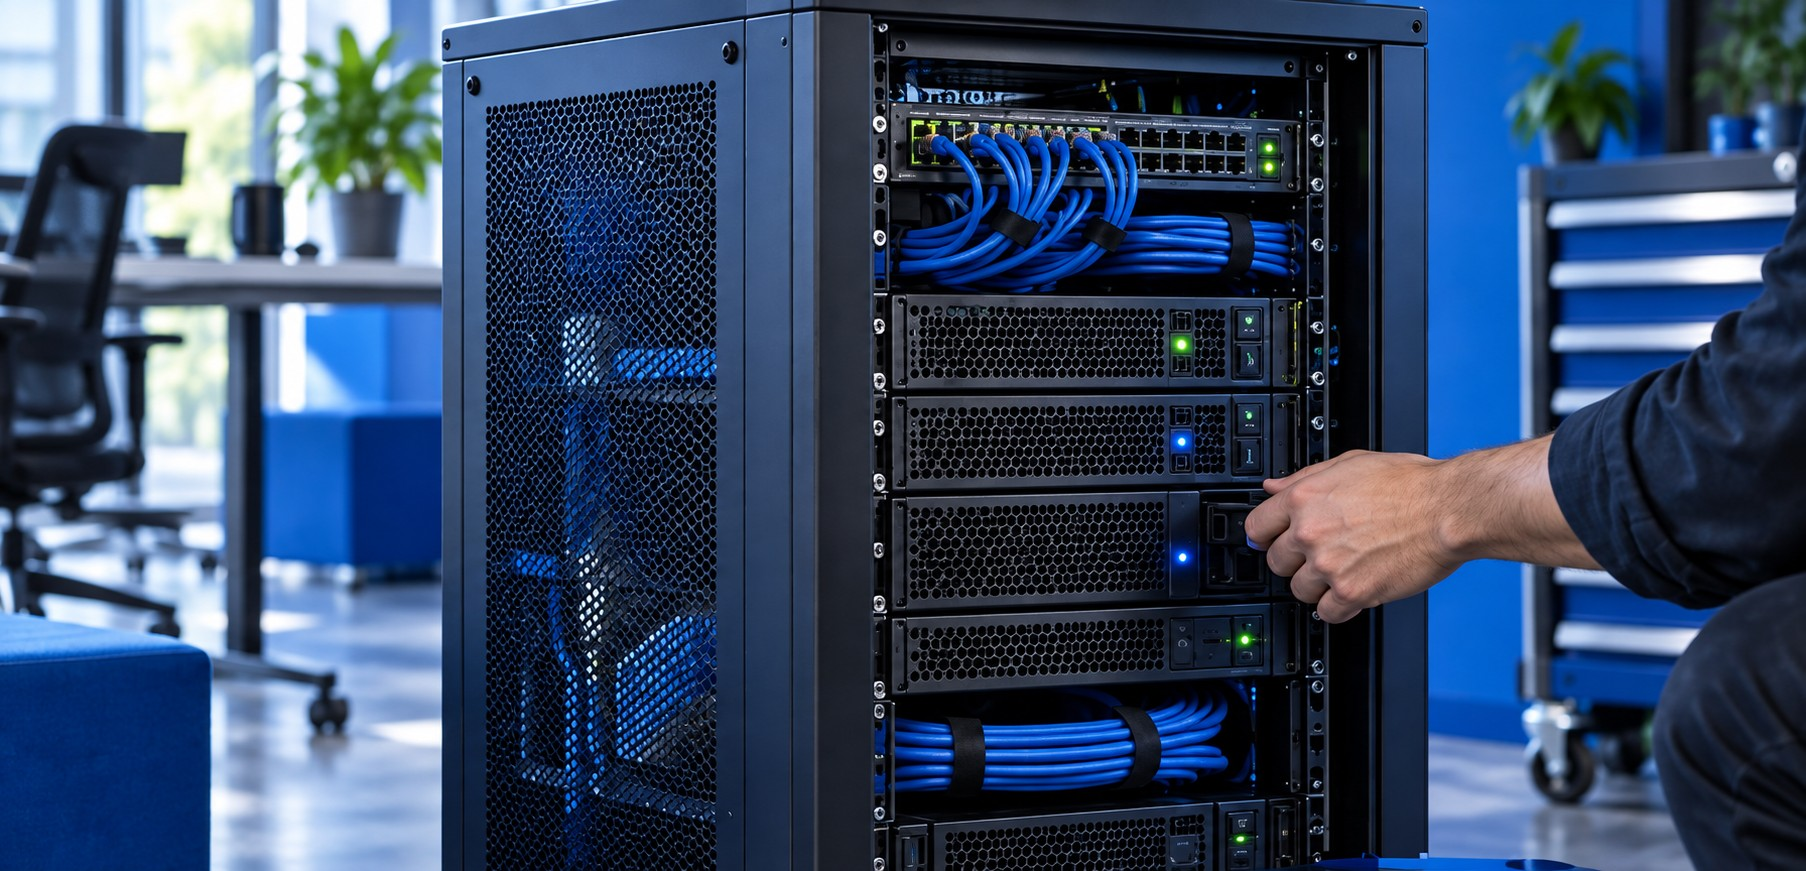
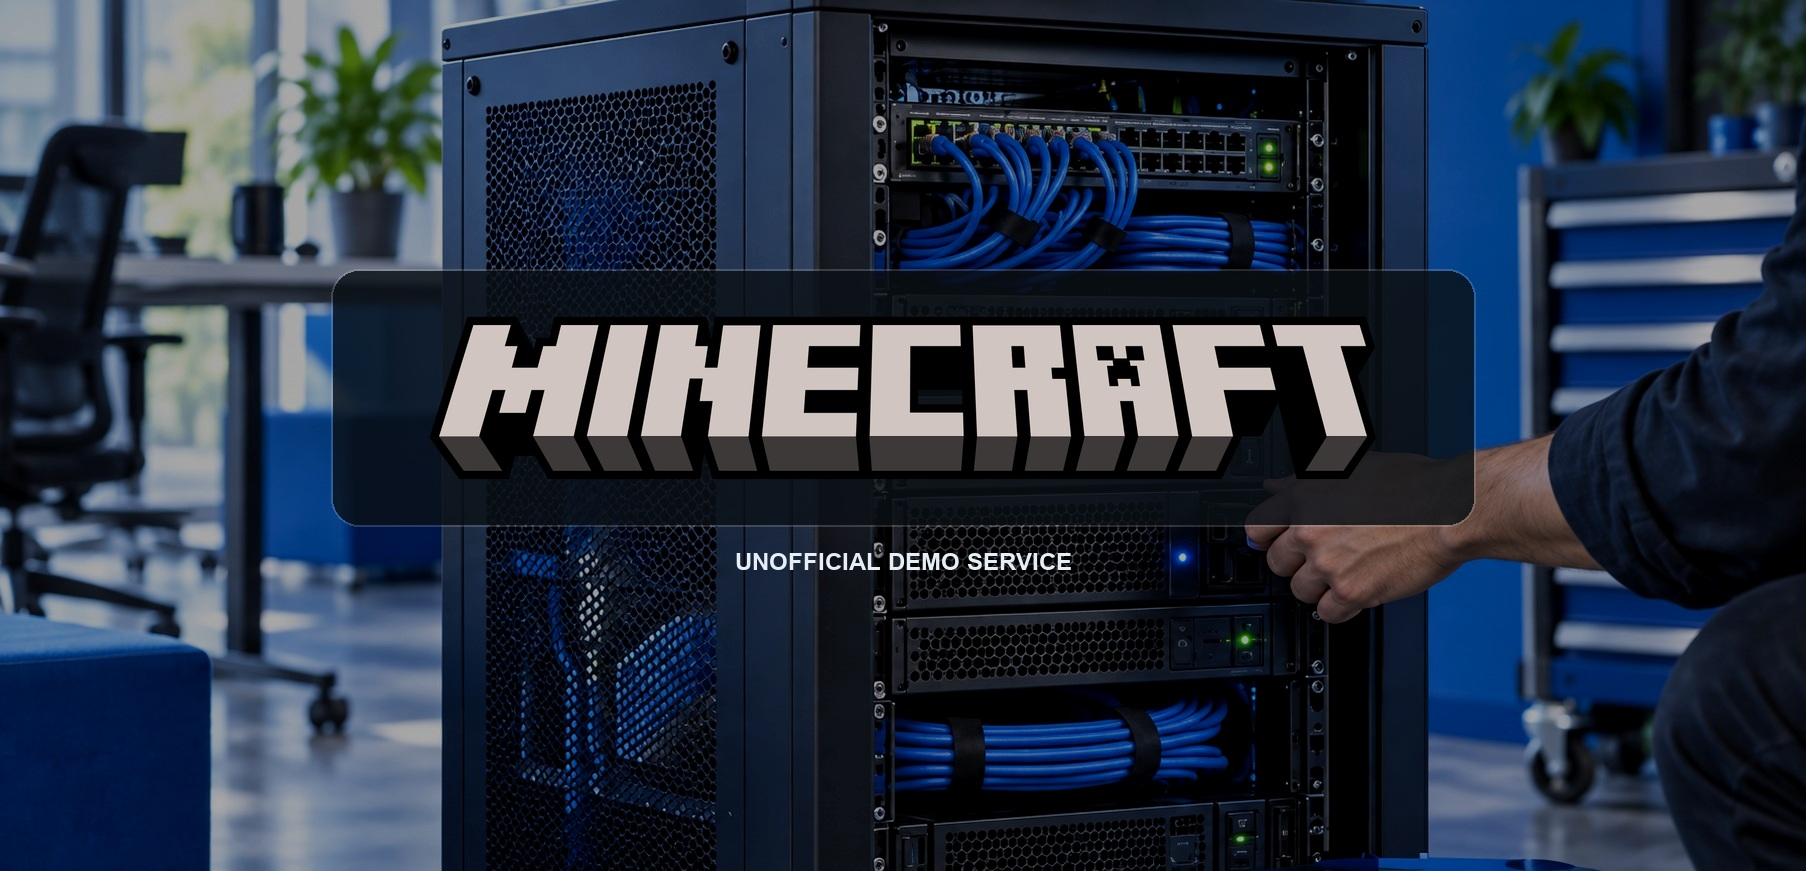
fix: refine demo storefront hero and navigation

diff --git a/themes/default/resources/css/components/_store.css b/themes/default/resources/css/components/_store.css
@@ -2178,7 +2178,7 @@ button.store-header__utility[aria-expanded="true"] {
 
 .store-hero__orbit {
   position: relative;
-  min-height: 18rem;
+  min-height: 22rem;
   width: min(100%, 34rem);
   margin-inline: auto;
   justify-self: end;
@@ -2220,45 +2220,45 @@ button.store-header__utility[aria-expanded="true"] {
 }
 
 .store-hero__plate--1 {
-  width: 42%;
-  aspect-ratio: 1;
-  left: -2%;
-  bottom: 2%;
-  transform: rotate(8deg) translateY(1.5rem);
+  width: 54%;
+  aspect-ratio: 4 / 3;
+  left: 15%;
+  top: 8%;
+  transform: rotate(-4deg) translateY(1.5rem);
   transition-delay: 0.22s;
-  z-index: 3;
+  z-index: 1;
 }
 
 .store-hero.is-ready .store-hero__plate--1 {
-  transform: rotate(8deg) translateY(0);
+  transform: rotate(-4deg) translateY(0);
 }
 
 .store-hero__plate--2 {
-  width: 36%;
-  aspect-ratio: 1;
-  right: -2%;
-  top: 4%;
-  transform: rotate(-10deg) translateY(-1rem);
+  width: 32%;
+  aspect-ratio: 4 / 3;
+  left: -2%;
+  bottom: 2%;
+  transform: rotate(8deg) translateY(1rem);
   transition-delay: 0.3s;
-  z-index: 2;
+  z-index: 3;
 }
 
 .store-hero.is-ready .store-hero__plate--2 {
-  transform: rotate(-10deg) translateY(0);
+  transform: rotate(8deg) translateY(0);
 }
 
 .store-hero__plate--3 {
   width: 30%;
-  aspect-ratio: 1;
-  right: 12%;
-  bottom: -2%;
-  transform: rotate(4deg) translateY(1.25rem);
+  aspect-ratio: 4 / 3;
+  right: 0;
+  top: 2%;
+  transform: rotate(-9deg) translateY(-1rem);
   transition-delay: 0.38s;
-  z-index: 4;
+  z-index: 2;
 }
 
 .store-hero.is-ready .store-hero__plate--3 {
-  transform: rotate(4deg) translateY(0);
+  transform: rotate(-9deg) translateY(0);
 }
 
 .store-hero__plate--empty {
@@ -2282,15 +2282,15 @@ button.store-header__utility[aria-expanded="true"] {
   }
 
   .store-hero.is-ready .store-hero__plate--1 {
-    transform: rotate(8deg);
+    transform: rotate(-4deg);
   }
 
   .store-hero.is-ready .store-hero__plate--2 {
-    transform: rotate(-10deg);
+    transform: rotate(8deg);
   }
 
   .store-hero.is-ready .store-hero__plate--3 {
-    transform: rotate(4deg);
+    transform: rotate(-9deg) translateY(0);
   }
 }
 
@@ -3724,7 +3724,7 @@ a.store-cart-line__name:hover {
     display: flex;
     grid-column: 2;
     min-width: 0;
-    overflow: hidden;
+    overflow: visible;
   }
 
   .store-header__search-wrap {
@@ -3887,6 +3887,29 @@ a.store-cart-line__name:hover {
 
   .store-header__cart {
     display: inline-flex;
+  }
+
+  .store-hero__orbit {
+    min-height: 18rem;
+    width: 100%;
+  }
+
+  .store-hero__plate--1 {
+    width: 70%;
+    left: 14%;
+    top: 5%;
+  }
+
+  .store-hero__plate--2 {
+    width: 38%;
+    left: 0;
+    bottom: 2%;
+  }
+
+  .store-hero__plate--3 {
+    width: 38%;
+    right: 0;
+    top: 0;
   }
 
   .store-header__account {

diff --git a/app/Console/Commands/AgovenaSeedDemoCommand.php b/app/Console/Commands/AgovenaSeedDemoCommand.php
@@ -446,7 +446,7 @@ final class AgovenaSeedDemoCommand extends Command
                 'slug' => 'minecraft-survival-server',
                 'sku' => 'AGV-MC-SURVIVAL',
                 'subtitle' => 'A ready-to-configure Minecraft service plan for the Pterodactyl demo flow.',
-                'description' => 'A synthetic Minecraft hosting plan that demonstrates product options, provider mapping, service provisioning and the customer Go to server action. No real panel or server is contacted by the demo.',
+                'description' => 'A synthetic Minecraft hosting plan that demonstrates product options, provider mapping, service provisioning and the customer Go to server action. No real panel or server is contacted by the demo. NOT AN OFFICIAL MINECRAFT SERVICE. NOT APPROVED BY OR ASSOCIATED WITH MOJANG OR MICROSOFT.',
                 'price' => 1499,
                 'category' => 'game-hosting',
                 'asset' => 'minecraft-survival-server',
@@ -506,11 +506,11 @@ final class AgovenaSeedDemoCommand extends Command
             ],
             [
                 'key' => 'physical',
-                'name' => 'Agovena Essential Tee',
+                'name' => 'Agovena Merch',
                 'slug' => 'agovena-essential-tee',
                 'sku' => 'AGV-MERCH-TEE',
                 'subtitle' => 'Official Agovena merchandise for the physical fulfilment demo.',
-                'description' => 'A synthetic merchandise product that demonstrates product options, payment, invoice, shipment creation and a dummy carrier tracking link.',
+                'description' => 'A synthetic Agovena merchandise product that demonstrates product options, payment, invoice, shipment creation and a dummy carrier tracking link.',
                 'price' => 2499,
                 'category' => 'physical',
                 'asset' => 'agovena-essential-tee',

diff --git a/themes/default/views/sections/hero.blade.php b/themes/default/views/sections/hero.blade.php
@@ -7,10 +7,20 @@
             : \App\Agovena\Media\PublicMedia::url($image);
     }
 
-    $spotlight = collect($spotlightProducts ?? [])
-        ->filter(fn ($product) => filled(\App\Agovena\Media\ProductMedia::primaryUrl($product)))
-        ->take(3)
+    $products = collect($spotlightProducts ?? [])
+        ->filter(fn ($product) => filled(\App\Agovena\Media\ProductMedia::primaryUrl($product)));
+    $preferredSlugs = [
+        'minecraft-survival-server',
+        'domain-registration-and-dns-management',
+        'agovena-essential-tee',
+    ];
+    $preferred = $products
+        ->filter(fn ($product) => in_array($product->slug, $preferredSlugs, true))
+        ->sortBy(fn ($product) => array_search($product->slug, $preferredSlugs, true))
         ->values();
+    $spotlight = $preferred->count() === count($preferredSlugs)
+        ? $preferred
+        : $products->take(3)->values();
 
     $brand = $siteName ?? 'Store';
 @endphp

diff --git a/tests/Feature/OfficialDemoSeedTest.php b/tests/Feature/OfficialDemoSeedTest.php
@@ -39,7 +39,10 @@ it('seeds the official demo catalog and customer journeys without loading accoun
         ->and(Order::query()->where('status', 'paid')->count())->toBe(6)
         ->and(Order::query()->where('status', 'cancelled')->count())->toBe(1)
         ->and(Order::query()->where('status', 'pending')->count())->toBe(1)
-        ->and(Invoice::query()->count())->toBe(8);
+        ->and(Invoice::query()->count())->toBe(8)
+        ->and(Product::query()->where('slug', 'agovena-essential-tee')->value('name'))->toBe('Agovena Merch')
+        ->and(Product::query()->where('slug', 'minecraft-survival-server')->value('description'))
+        ->toContain('NOT AN OFFICIAL MINECRAFT SERVICE');
 
     expect(Schema::hasTable('service_instances'))->toBeTrue()
         ->and(Schema::hasTable('domain_registrations'))->toBeTrue()

diff --git a/tests/Feature/ThemePlatformTest.php b/tests/Feature/ThemePlatformTest.php
@@ -68,6 +68,12 @@ test('homepage keeps the storefront chrome compact and the hero deterministic', 
 
     expect(app(ThemeManager::class)->config()->sections()[0]['image'] ?? null)->toBe('');
     expect(substr_count($html, 'class="store-hero__plate store-hero__plate--'))->toBe(3);
+    expect($html)
+        ->toContain('/storage/demo/minecraft-survival-server.jpg')
+        ->toContain('/storage/demo/domain-registration-and-dns-management.jpg')
+        ->toContain('/storage/demo/agovena-essential-tee.jpg')
+        ->toContain('Agovena Merch')
+        ->not->toContain('Agovena Essential Tee');
 });
 
 test('demo seeder populates catalog and refuses production', function () {

diff --git a/resources/images/demo/README.md b/resources/images/demo/README.md
@@ -12,3 +12,5 @@ They follow the approved reference direction:
 - no external network download is required when seeding the demo.
 
 The explicit `agovena:seed-demo --force` command copies these assets into `storage/app/public/demo/`. The normal application boot and standard database seeding do not load them.
+
+The Minecraft demo cover contains the official Minecraft wordmark sourced from the Minecraft website usage-guidelines surface: https://www.minecraft.net/en-us/usage-guidelines. It is used only for this local, clearly unofficial demo listing. The listing includes the required non-affiliation disclaimer; all rights remain with Mojang and Microsoft.
